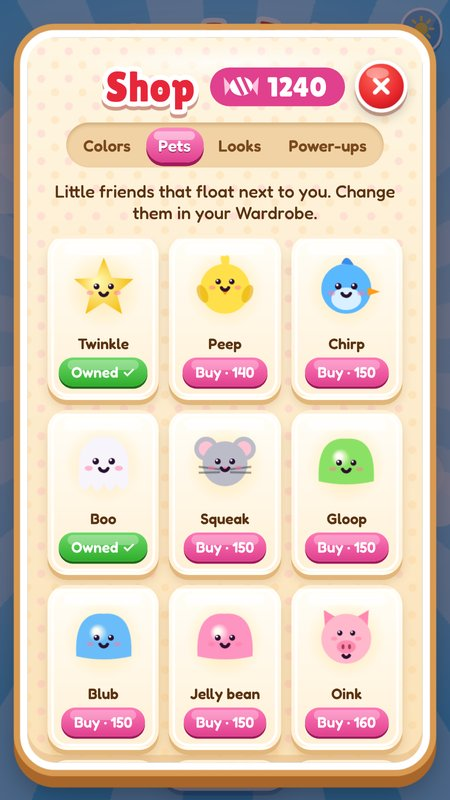
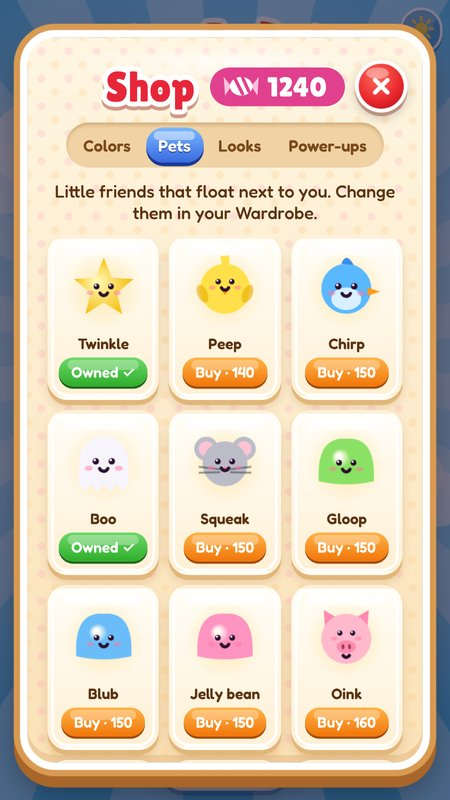
Menos rosado en la tienda: regalos de colores, pestañas azules y botones naranjas; Get more in the Shop con relieve; los nombres largos de poderes entran en su pastilla

diff --git a/index.html b/index.html
@@ -237,7 +237,8 @@ body[data-ev="christmas"] #evBtn{background:rgba(255,255,255,.18)}
 .wtab{border:0;background:transparent;font:600 14px var(--body);color:#7a4a1c;padding:6px 16px;border-radius:99px;cursor:pointer;white-space:nowrap}
 .wtab.on{background:#fff;color:#c2370f;box-shadow:0 2px 0 rgba(0,0,0,.08)}
 .moreBtn{border:0;cursor:pointer;margin-top:6px;padding:10px 22px;border-radius:99px;color:#fff;font:400 18px var(--display);letter-spacing:.02em;
-  background:#e0408e;box-shadow:0 4px 0 #a01a5e}
+  position:relative;background:linear-gradient(#ffb44a,#f2760a);box-shadow:0 4px 0 #a84a00;text-shadow:0 1px 0 #a84a00}
+.moreBtn::after{content:"";position:absolute;left:12%;right:12%;top:4px;height:9px;border-radius:99px;background:rgba(255,255,255,.4);pointer-events:none}
 .moreBtn[hidden]{display:none}
 .look.prize{background:linear-gradient(#fff6c8,#ffe08a);border-color:#f0c040}
 .look.prize.locked{background:rgba(240,192,64,.18);border-color:rgba(240,192,64,.5)}
@@ -260,9 +261,9 @@ body[data-ev="christmas"] #evBtn{background:rgba(255,255,255,.18)}
 .newDot{position:absolute;top:-2px;right:-2px;width:16px;height:16px;border-radius:50%;background:#e8263a;border:2px solid #fff;animation:dotPop 1.2s ease-in-out infinite}
 @keyframes dotPop{50%{transform:scale(1.2)}}
 .item.tap{cursor:pointer;transition:transform .1s}.item.tap:active{transform:scale(.96)}
-/* candy shop: sunken tab rail with a glossy pink tab, raised tiles with a lip and a shine, items on a soft golden glow, still-wrapped presents for what is not found yet */
+/* candy shop: sunken tab rail with a glossy blue tab, raised tiles with a lip and a shine, items on a soft golden glow, still-wrapped presents for what is not found yet */
 .tabs{background:#f0d2a4;box-shadow:inset 0 2px 3px rgba(150,90,30,.3)}
-.tab.on,.itab.on,.wtab.on{position:relative;color:#fff;background:linear-gradient(#ff8ac4,#e0408e);box-shadow:0 3px 0 #a01a5e;text-shadow:0 1px 0 #a01a5e}
+.tab.on,.itab.on,.wtab.on{position:relative;color:#fff;background:linear-gradient(#7ab8ff,#3a6ae0);box-shadow:0 3px 0 #1a3a9a;text-shadow:0 1px 0 #1a3a9a}
 .tab.on::after,.itab.on::after,.wtab.on::after{content:"";position:absolute;left:14%;right:14%;top:3px;height:7px;border-radius:99px;background:rgba(255,255,255,.45)}
 .item,.look{position:relative;background:linear-gradient(#fffdf6,#fff0d6);box-shadow:0 4px 0 #e2b67a,0 6px 8px rgba(150,90,30,.2),inset 0 0 0 2px #fff}
 .item::after,.look::after{content:"";position:absolute;left:12%;right:12%;top:4px;height:9px;border-radius:99px;background:rgba(255,255,255,.75);pointer-events:none}
@@ -270,13 +271,17 @@ body[data-ev="christmas"] #evBtn{background:rgba(255,255,255,.18)}
 .item.mystery,.look.locked{background:linear-gradient(#f7e2c2,#efd2a6);box-shadow:0 4px 0 #d3a464,inset 0 0 0 2px rgba(255,255,255,.6)}
 .look.locked canvas,.look.locked img{background:none}
 .gift{position:relative;z-index:1;width:46px;height:38px;margin:26px 0 2px;border-radius:6px;
-  background:linear-gradient(90deg,transparent 40%,#ffd23a 40% 60%,transparent 60%),repeating-linear-gradient(45deg,#ff7ab8 0 6px,#ff9ccb 6px 12px);box-shadow:inset 0 -5px 0 rgba(0,0,0,.12)}
-.gift::before{content:"";position:absolute;left:-3px;right:-3px;top:-8px;height:11px;border-radius:4px;background:linear-gradient(90deg,#e0408e 40%,#ffd23a 40% 60%,#e0408e 60%)}
+  background:linear-gradient(90deg,transparent 40%,var(--gr) 40% 60%,transparent 60%),repeating-linear-gradient(45deg,var(--g1) 0 6px,var(--g2) 6px 12px);box-shadow:inset 0 -5px 0 rgba(0,0,0,.12)}
+.gift::before{content:"";position:absolute;left:-3px;right:-3px;top:-8px;height:11px;border-radius:4px;background:linear-gradient(90deg,var(--gl) 40%,var(--gr) 40% 60%,var(--gl) 60%)}
+/* each present in its own wrapping paper: paper stripes, lid, ribbon */
+.gift.g0{--g1:#5aa8ff;--g2:#86c0ff;--gl:#2a7ae0;--gr:#ffd23a}.gift.g1{--g1:#5ccf55;--g2:#86e07e;--gl:#2f9a2c;--gr:#ffd23a}
+.gift.g2{--g1:#ffa23a;--g2:#ffc070;--gl:#e06a10;--gr:#e8263a}.gift.g3{--g1:#a06ae8;--g2:#bf96f2;--gl:#7a3ad0;--gr:#ffd23a}
+.gift.g4{--g1:#ff6a6a;--g2:#ff9a9a;--gl:#d02a3a;--gr:#ffd23a}
 .gift::after{content:"";position:absolute;left:50%;top:-19px;translate:-50% 0;width:32px;height:14px;
-  background:radial-gradient(circle at 50% 80%,#f0a800 3.5px,transparent 4px),radial-gradient(8px 5.5px at 9px 8px,#ffd23a 85%,transparent 100%),radial-gradient(8px 5.5px at 23px 8px,#ffd23a 85%,transparent 100%)}
+  background:radial-gradient(circle at 50% 80%,rgba(0,0,0,.25) 3.5px,transparent 4px),radial-gradient(8px 5.5px at 9px 8px,var(--gr) 85%,transparent 100%),radial-gradient(8px 5.5px at 23px 8px,var(--gr) 85%,transparent 100%);filter:brightness(1.05)}
 
 .item canvas,.item img{width:64px;height:64px}
-.buy{border:0;border-radius:99px;padding:4px 10px;font:600 12px var(--body);cursor:pointer;background:linear-gradient(#ff7ab8,#e0408e);box-shadow:0 2px 0 #a01a5e;color:#fff;min-width:64px}
+.buy{border:0;border-radius:99px;padding:4px 10px;font:600 12px var(--body);cursor:pointer;background:linear-gradient(#ffb44a,#f2760a);box-shadow:0 2px 0 #a84a00;color:#fff;min-width:64px}
 .buy:disabled{background:#c9b8a8;box-shadow:0 2px 0 #9a8a7a;cursor:not-allowed}
 .sheet{scrollbar-width:none;overflow-x:hidden;box-sizing:border-box;width:min(100%,440px);max-height:100%;overflow:auto;background:var(--candyPanel);border:6px solid #fff;box-shadow:var(--candyRim);border-radius:28px;
   padding:18px 16px 20px;display:flex;flex-direction:column;align-items:center;gap:10px;color:#5b3210}
@@ -2591,8 +2596,10 @@ function drawPowerHud(){
     ctx.fillStyle = "#fff"; ctx.beginPath(); ctx.arc(x+R, top+R, R-5, 0, 6.28); ctx.fill();
     ctx.save(); ctx.translate(x+R, top+R); ctx.scale(.55,.55); drawItem(e.icon); ctx.restore();
     const lx = x+R*2, bw = w-R*2-12, by = top+26;
-    ctx.font = '15px "Lilita One", system-ui'; ctx.textAlign = "left"; ctx.textBaseline = "alphabetic"; ctx.lineJoin = "round";
-    ctx.lineWidth = 4.5; ctx.strokeStyle = ed; ctx.strokeText(e.label.toUpperCase(), lx, top+20); ctx.fillStyle = "#fff"; ctx.fillText(e.label.toUpperCase(), lx, top+20);
+    const lab = e.label.toUpperCase(); ctx.textAlign = "left"; ctx.textBaseline = "alphabetic"; ctx.lineJoin = "round";
+    ctx.font = '15px "Lilita One", system-ui'; const lw = ctx.measureText(lab).width;
+    if(lw > bw) ctx.font = `${(15*bw/lw).toFixed(1)}px "Lilita One", system-ui`;   // long names shrink to stay inside the pill
+    ctx.lineWidth = 4.5; ctx.strokeStyle = ed; ctx.strokeText(lab, lx, top+20); ctx.fillStyle = "#fff"; ctx.fillText(lab, lx, top+20);
     const max = hudMax[k] || 1, frac = clamp(e.v/max, 0, 1);
     ctx.fillStyle = "rgba(0,0,0,.22)"; rr(lx, by, bw, 8, 4); ctx.fill();
     if(e.unit==="s"){   // a striped candy stick that empties
@@ -4432,12 +4439,12 @@ function renderShop(){
   $("shopSub").textContent = shopTab==="skins" ? "New colors for Flubbie. Change them in your Wardrobe." : shopTab==="pets" ? "Little friends that float next to you. Change them in your Wardrobe."
     : shopTab==="looks" ? "Looks to buy. Wear them in your Wardrobe." : (state==="play"||state==="rising") ? "Bought power-ups work as soon as you go back to the game." : "Bought power-ups work as soon as your next run starts.";
   if(shopTab!=="boosts"){ const pre = shopTab==="skins"?"skin:":shopTab==="pets"?"pet:":"look:"; for(const k of [...shopNew]) if(k.startsWith(pre)) setTimeout(()=>{ shopNew.delete(k); saveDisc(); }, 0); }
-  sorted.forEach(it=>{
+  sorted.forEach((it, idx)=>{
     const price = it.price;
     const key = shopTab==="skins" ? "skin:"+it.id : shopTab==="pets" ? "pet:"+it.id : shopTab==="looks" ? "look:"+it.id : null;
     if(key && it.price>0 && !isFound(key)){   // not found yet: a mystery
       const card = document.createElement("div"); card.className = "item mystery";
-      const g = document.createElement("i"); g.className = "gift"; card.appendChild(g);   // still wrapped: a present
+      const g = document.createElement("i"); g.className = "gift g" + (idx % 5); card.appendChild(g);   // still wrapped: a present
       const nm = document.createElement("span"); nm.textContent = "???"; card.appendChild(nm);
       const hint = document.createElement("small"); hint.className = "hint"; hint.textContent = `From ring ${LOCKS.find(x=>x.key===key).ring}`; card.appendChild(hint);
       grid.appendChild(card); return;
